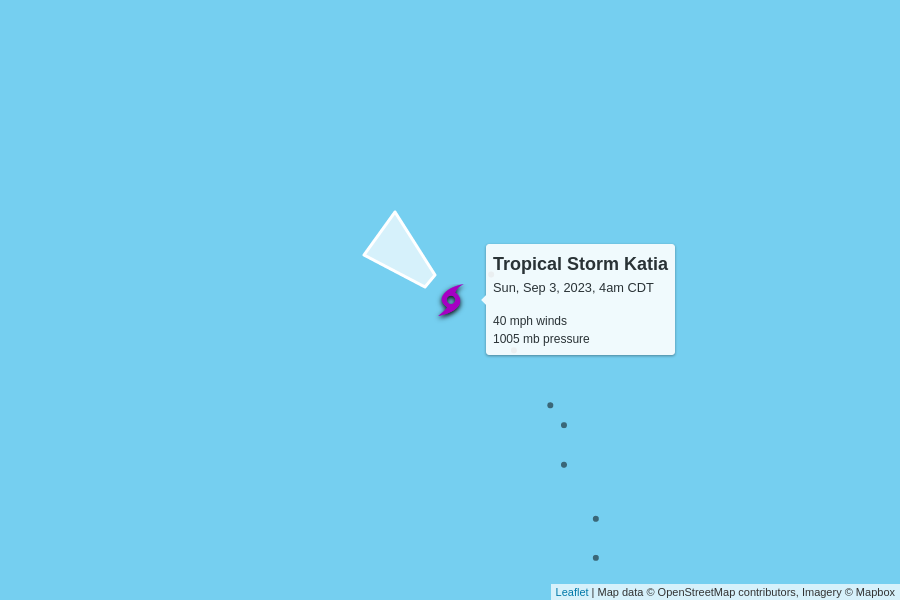
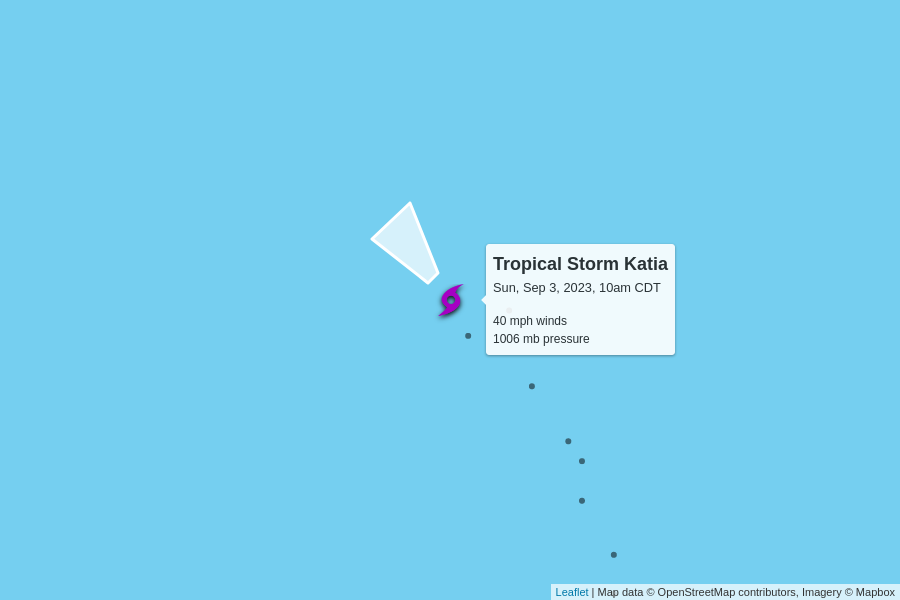
automatic update

Changed region(s): [[0.4044, 0.33, 0.4978, 0.48], [0.6844, 0.45, 0.7156, 0.51], [0.6222, 0.75, 0.6533, 0.78]]

diff --git a/docs/index.html b/docs/index.html
@@ -104,7 +104,7 @@
         <td colspan="6" class="storm category-0" >
           <h2>
             Tropical Storm Gert
-            <p class="updated">last updated <span data-time>2023-09-03T09:00:00.000Z</span></p>
+            <p class="updated">last updated <span data-time>2023-09-03T15:00:00.000Z</span></p>
           </h2>
         </td>
       </tr>
@@ -120,11 +120,11 @@
       <tr>
         <td class="spacer"></td>
         <td>60 mph<br>0 mph since last update</td>
-        <td>998 mb<br>0 mb since last update</td>
+        <td>997 mb<br>-1 mb since last update</td>
         <td>
-          12 mph to the north-northeast
+          15 mph to the north-northeast
           <br/>
-          <span style="display: inline-block; font-size: 1.5em; transform: rotate(25deg);">↑</span>
+          <span style="display: inline-block; font-size: 1.5em; transform: rotate(30deg);">↑</span>
         </td>
         <td><a href="https://raw.githubusercontent.com/mgwalker/atlantic-hurricanes/main/data/csv/AL062023.csv">AL062023.csv</a></td>
         <td><a href="https://www.nhc.noaa.gov/archive/2023/GERT.shtml?">NHC advisories</a></td>
@@ -148,7 +148,7 @@
         <td colspan="6" class="storm category-0" >
           <h2>
             Tropical Storm Katia
-            <p class="updated">last updated <span data-time>2023-09-03T09:00:00.000Z</span></p>
+            <p class="updated">last updated <span data-time>2023-09-03T15:00:00.000Z</span></p>
           </h2>
         </td>
       </tr>
@@ -163,12 +163,12 @@
       </tr>
       <tr>
         <td class="spacer"></td>
-        <td>40 mph<br>-5 mph since last update</td>
-        <td>1005 mb<br>+3 mb since last update</td>
+        <td>40 mph<br>0 mph since last update</td>
+        <td>1006 mb<br>+1 mb since last update</td>
         <td>
-          9 mph to the northwest
+          7 mph to the northwest
           <br/>
-          <span style="display: inline-block; font-size: 1.5em; transform: rotate(310deg);">↑</span>
+          <span style="display: inline-block; font-size: 1.5em; transform: rotate(320deg);">↑</span>
         </td>
         <td><a href="https://raw.githubusercontent.com/mgwalker/atlantic-hurricanes/main/data/csv/AL122023.csv">AL122023.csv</a></td>
         <td><a href="https://www.nhc.noaa.gov/archive/2023/KATIA.shtml?">NHC advisories</a></td>
